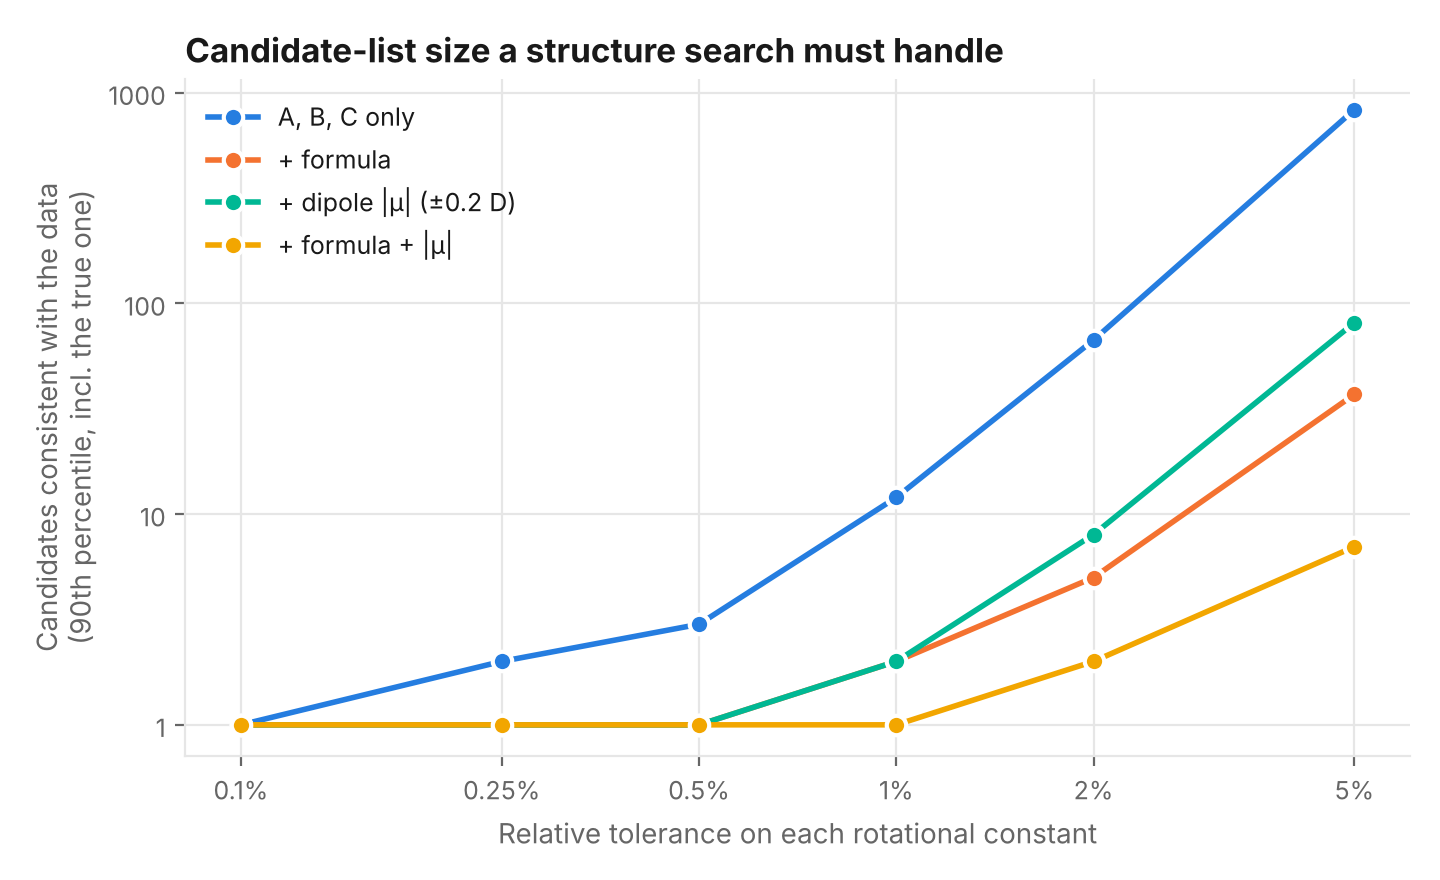
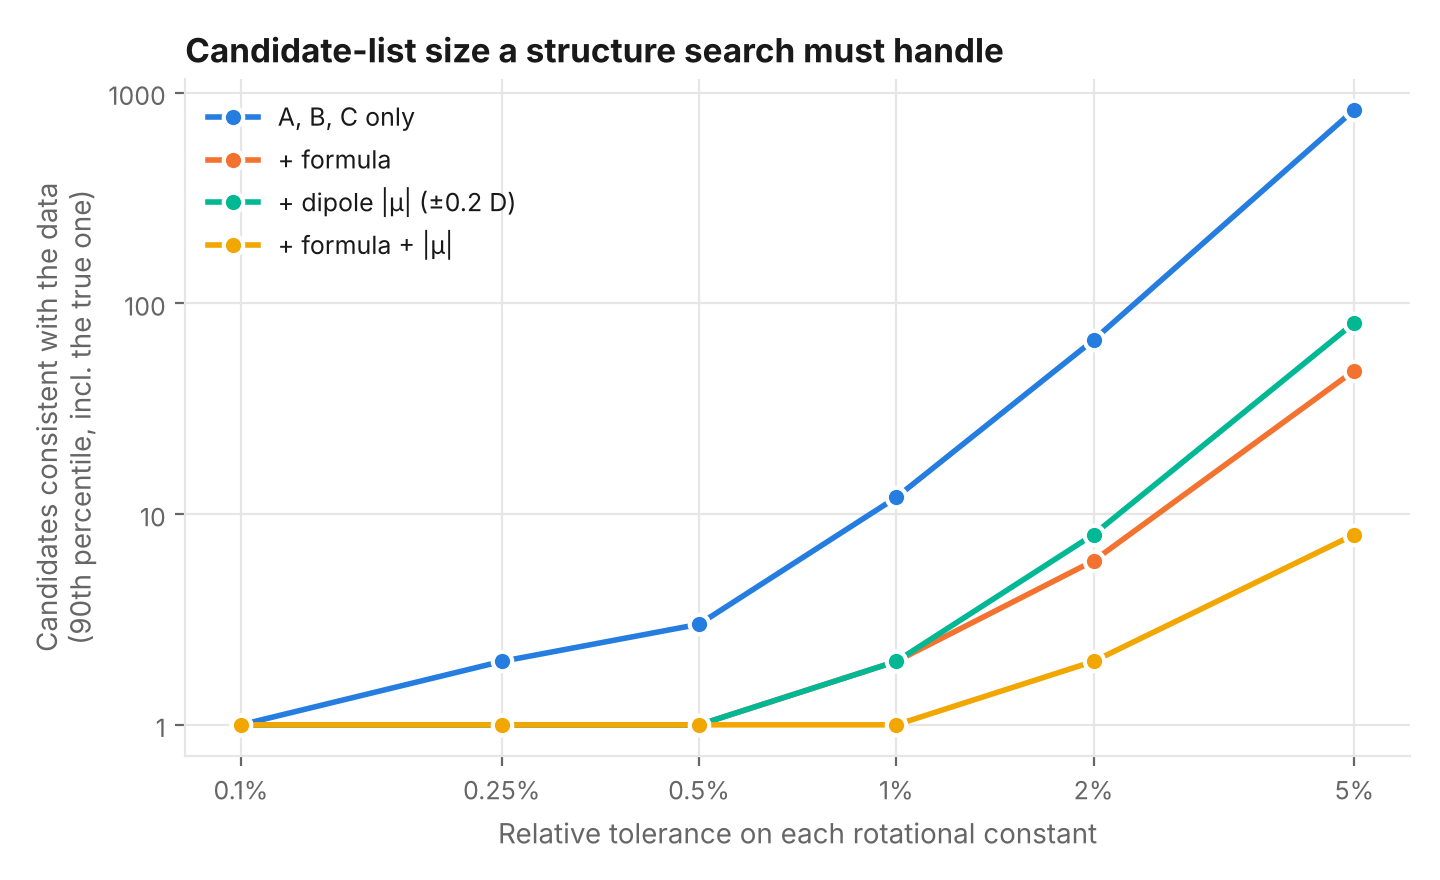
Re-perceive QM9 bonds from geometry; fix formulas and re-run milestone 1
The MoleculeNet gdb9.sdf has wrong bond orders and formal charges for ~19% of
molecules, which RDKit turns into different molecules by adding implicit
hydrogens. Use the SDF only for atoms and coordinates, re-perceive bonds with
total charge 0, and compute formulas from explicit atoms. Formula-conditioned
identifiability drops slightly (75.4% unique at 1% vs 79.8% before).

Claude-Session: https://claude.ai/code/session_016XJZXzNotU9gsJ2FA3irWT

diff --git a/src/rotml/analysis/cheap_methods.py b/src/rotml/analysis/cheap_methods.py
@@ -22,6 +22,7 @@ import numpy as np
 from rdkit import Chem
 from rdkit.Chem import AllChem
 
+from rotml.data.qm9 import graph_from_xyz
 from rotml.physics.rotor import masses_for, rotational_constants
 
 XTB_FMAX = 0.01  # eV / Angstrom
@@ -32,17 +33,6 @@ XTB_MAX_STEPS = 400
 class Geometry:
     coords: np.ndarray
     energy: float
-
-
-def graph_with_stereo(qm9_mol: Chem.Mol) -> Chem.Mol | None:
-    """Sanitized mol (explicit H, QM9 conformer) with stereo assigned from 3D."""
-    mol = Chem.Mol(qm9_mol)
-    try:
-        Chem.SanitizeMol(mol)
-    except Exception:  # noqa: BLE001
-        return None
-    Chem.AssignStereochemistryFrom3D(mol)
-    return mol
 
 
 def mmff_relax(mol: Chem.Mol, conf_id: int = -1) -> Geometry | None:
@@ -109,21 +99,20 @@ def _abc(coords: np.ndarray, masses: np.ndarray) -> np.ndarray:
     return rotational_constants(coords, masses)
 
 
-def evaluate_molecule(qm9_mol: Chem.Mol, ref_abc: np.ndarray, k_conformers: int = 10,
-                      seed: int = 42) -> dict:
-    """Rotational constants of one molecule under every cheap method.
+def evaluate_molecule(symbols: list[str], dft_coords: np.ndarray, ref_abc: np.ndarray,
+                      k_conformers: int = 10, seed: int = 42) -> dict:
+    """Rotational constants of one QM9 molecule under every cheap method.
 
-    Returns a flat dict: {method}_{A|B|C} plus per-method wall time (s) and
-    the number of conformers embedded.
+    The molecular graph is re-perceived from the DFT geometry (QM9 molecules
+    are neutral, so charge 0). Returns a flat dict: {method}_{A|B|C} plus
+    per-method wall time (s) and the number of distinct conformers.
     """
     out: dict = {}
-    mol = graph_with_stereo(qm9_mol)
+    mol = graph_from_xyz(symbols, dft_coords, charge=0)
     if mol is None:
-        return {"status": "unsanitizable"}
-    symbols = [a.GetSymbol() for a in mol.GetAtoms()]
+        return {"status": "no_graph"}
     masses = masses_for(symbols)
-    charge = Chem.GetFormalCharge(mol)
-    dft_coords = mol.GetConformer().GetPositions()
+    charge = 0
 
     def record(name: str, abc: np.ndarray | None) -> None:
         for c, v in zip("ABC", abc if abc is not None else [np.nan] * 3):

diff --git a/tests/test_qm9.py b/tests/test_qm9.py
@@ -1,0 +1,53 @@
+import numpy as np
+from rdkit import Chem
+
+from rotml.data.qm9 import graph_from_xyz, hill_formula
+
+# QM9 gdb_121852: the MoleculeNet SDF stores this imine with single bonds and
+# an N+ charge, which RDKit turns into a protonated amine with extra hydrogens.
+GDB_121852 = """C 0.4789 0.9285 0.5022
+C 0.1309 -0.5128 0.1209
+N -1.3063 -0.6746 0.0135
+C -1.8412 -1.1501 -1.0288
+C -1.2033 -1.6371 -2.3102
+O -3.1902 -1.2967 -1.0995
+C -3.9513 -0.9323 0.0610
+C -5.3984 -1.2463 -0.2750
+O -5.5957 -2.6209 -0.5456
+H 1.5566 1.0395 0.6584
+H 0.1728 1.6236 -0.2862
+H -0.0397 1.2147 1.4215
+H 0.6779 -0.7952 -0.7911
+H 0.4845 -1.1848 0.9146
+H -0.7385 -2.6169 -2.1593
+H -1.9608 -1.7318 -3.0888
+H -0.4255 -0.9510 -2.6523
+H -3.6046 -1.5149 0.9203
+H -3.8044 0.1293 0.2874
+H -6.0297 -0.9958 0.5839
+H -5.7199 -0.6187 -1.1217
+H -4.9445 -2.8572 -1.2155"""
+
+
+def _parse(block):
+    symbols, coords = [], []
+    for line in block.splitlines():
+        s, x, y, z = line.split()
+        symbols.append(s)
+        coords.append([float(x), float(y), float(z)])
+    return symbols, np.array(coords)
+
+
+def test_hill_formula():
+    assert hill_formula(["O", "H", "C", "H", "C", "N", "H"]) == "C2H3NO"
+    assert hill_formula(["H", "O", "H"]) == "H2O"
+
+
+def test_bonds_reperceived_from_geometry():
+    symbols, coords = _parse(GDB_121852)
+    mol = graph_from_xyz(symbols, coords)
+    assert mol is not None
+    assert Chem.GetFormalCharge(mol) == 0
+    assert hill_formula(symbols) == "C6H13NO2"
+    smiles = Chem.MolToSmiles(Chem.RemoveHs(mol))
+    assert Chem.CanonSmiles(smiles, useChiral=0) == Chem.CanonSmiles("CCN=C(C)OCCO", useChiral=0)

diff --git a/scripts/03_cheap_method_error.py b/scripts/03_cheap_method_error.py
@@ -22,7 +22,7 @@ import numpy as np
 import pandas as pd
 
 from rotml.analysis.cheap_methods import evaluate_molecule
-from rotml.data.qm9 import RAW_DIR, SDF_NAME, iter_sdf
+from rotml.data.qm9 import RAW_DIR, SDF_NAME, iter_records
 from rotml.physics.rotor import is_linear
 
 DATA = Path("data/processed/qm9.csv")
@@ -32,8 +32,9 @@ OUT = Path("results/m2")
 def _work(args):
     sdf_index, ref_abc, k = args
     os.environ.setdefault("OMP_NUM_THREADS", "1")
-    (_, mol), = list(iter_sdf(RAW_DIR / SDF_NAME, [int(sdf_index)]))
-    return int(sdf_index), evaluate_molecule(mol, np.asarray(ref_abc), k_conformers=k)
+    (_, rec), = list(iter_records(RAW_DIR / SDF_NAME, [int(sdf_index)]))
+    return int(sdf_index), evaluate_molecule(rec.symbols, rec.coords, np.asarray(ref_abc),
+                                             k_conformers=k)
 
 
 def main() -> None:
@@ -45,7 +46,7 @@ def main() -> None:
     args = ap.parse_args()
 
     qm9 = pd.read_csv(DATA)
-    pool_df = qm9[qm9.sanitized & ~is_linear(qm9.A, qm9.B)]
+    pool_df = qm9[qm9.graph_ok & ~is_linear(qm9.A, qm9.B)]
     sample = pool_df.sample(n=args.n, random_state=args.seed)
     jobs = [(r.sdf_index, (r.A, r.B, r.C), args.k) for r in sample.itertuples()]
 

diff --git a/scripts/01_prepare_qm9.py b/scripts/01_prepare_qm9.py
@@ -8,7 +8,9 @@ Download first (about 45 MB):
     (cd data/raw/qm9_molnet && unzip qm9.zip)
 
 Also checks that rotational constants recomputed from the SDF geometries
-agree with the reference values in the CSV.
+agree with the reference values in the CSV. Bonds are re-perceived from the
+geometries because the SDF's bond orders and charges are unreliable (see
+rotml.data.qm9).
 """
 
 from __future__ import annotations
@@ -37,7 +39,8 @@ def main() -> None:
         geom = table.loc[nonlinear, f"{c}_geom"].to_numpy()
         rel[c] = np.abs(geom - ref) / ref
     print(f"molecules: {len(table)}  (linear: {(~nonlinear).sum()}, "
-          f"unsanitizable: {(~table.sanitized).sum()})  in {time.time() - t0:.0f}s")
+          f"no valid neutral graph from xyz: {(~table.graph_ok).sum()}, "
+          f"charged graph in SDF: {(table.sdf_net_charge != 0).sum()})  in {time.time() - t0:.0f}s")
     for c, r in rel.items():
         print(f"  {c}: geometry vs reference  median rel. diff {np.median(r):.2e}, "
               f"99.9th pct {np.quantile(r, 0.999):.2e}")

diff --git a/README.md b/README.md
@@ -30,9 +30,9 @@ the number of other molecules that also match in brackets:
 | Known observables | 0.1% | 0.5% | 1% | 2% | 5% |
 |---|---|---|---|---|---|
 | A, B, C | 98.6% (0) | 57.1% (2) | 12.0% (11) | 1.4% (66) | 0.1% (829) |
-| A, B, C + formula | 99.5% (0) | 94.5% (0) | 79.8% (1) | 46.3% (4) | 11.8% (36) |
+| A, B, C + formula | 99.5% (0) | 93.3% (0) | 75.4% (1) | 37.6% (5) | 7.2% (47) |
 | A, B, C + dipole magnitude (±0.2 D) | 99.6% (0) | 93.7% (0) | 69.6% (1) | 23.1% (7) | 2.3% (80) |
-| A, B, C + formula + dipole | 99.6% (0) | 98.8% (0) | 95.4% (0) | 82.8% (1) | 45.2% (6) |
+| A, B, C + formula + dipole | 99.6% (0) | 98.7% (0) | 94.8% (0) | 79.7% (1) | 37.5% (7) |
 
 ![Uniquely identified vs tolerance](results/m1/unique_vs_tolerance.png)
 
@@ -42,10 +42,11 @@ Findings:
   methods with vibrational corrections), rotational constants alone identify
   98.6% of QM9 molecules. At 1% (typical DFT) they identify only 12%.
 - **Knowing the formula buys roughly a factor of 2-4 in tolerance**: with the
-  formula, 1% tolerance identifies 80% of molecules; without it you need a
+  formula, 1% tolerance identifies 75% of molecules; without it you need a
   tolerance between 0.25% (90%) and 0.5% (57%).
 - **One extra observable helps nearly as much as the formula.** The dipole
-  magnitude alone takes 1%-tolerance identification from 12% to 70%.
+  magnitude alone takes 1%-tolerance identification from 12% to 70%; formula
+  and dipole together reach 95%.
 - **Ambiguity grows quickly with size** (`results/m1/unique_vs_size.png`): at 1%
   with A, B, C only, 63% of 7-heavy-atom molecules are unique but only 8% of
   9-heavy-atom ones.
@@ -85,6 +86,16 @@ pytest
 
 QM9 comes from the MoleculeNet mirror because figshare (the original host)
 blocks automated downloads.
+
+**Data caveat:** in the MoleculeNet `gdb9.sdf`, bond orders and formal charges
+are wrong for about 19% of molecules (25,173 have a net formal charge, although
+every QM9 molecule is neutral). Read naively with RDKit, those records gain
+implicit hydrogens and become different molecules. This code uses the SDF only
+for atoms and coordinates, re-perceives bonds from the geometry with total
+charge 0, and computes formulas from the explicit atoms. 6,837 molecules (5.1%)
+have no valid neutral Lewis structure from their geometry; they keep their
+constants and formula (milestone 1) but are excluded where a graph is needed
+(milestone 2).
 
 ## Layout
 
